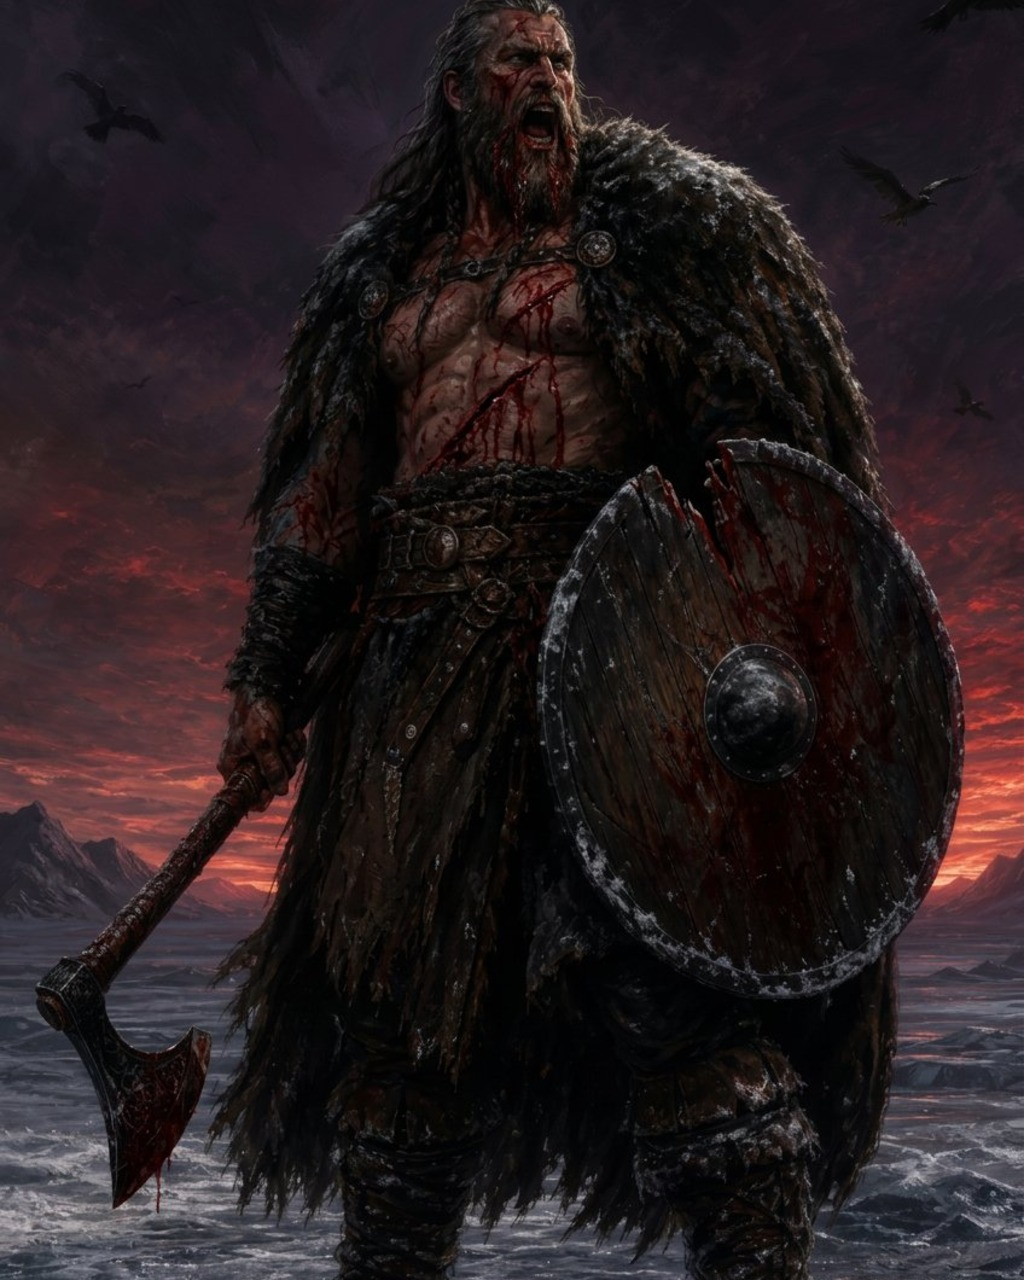
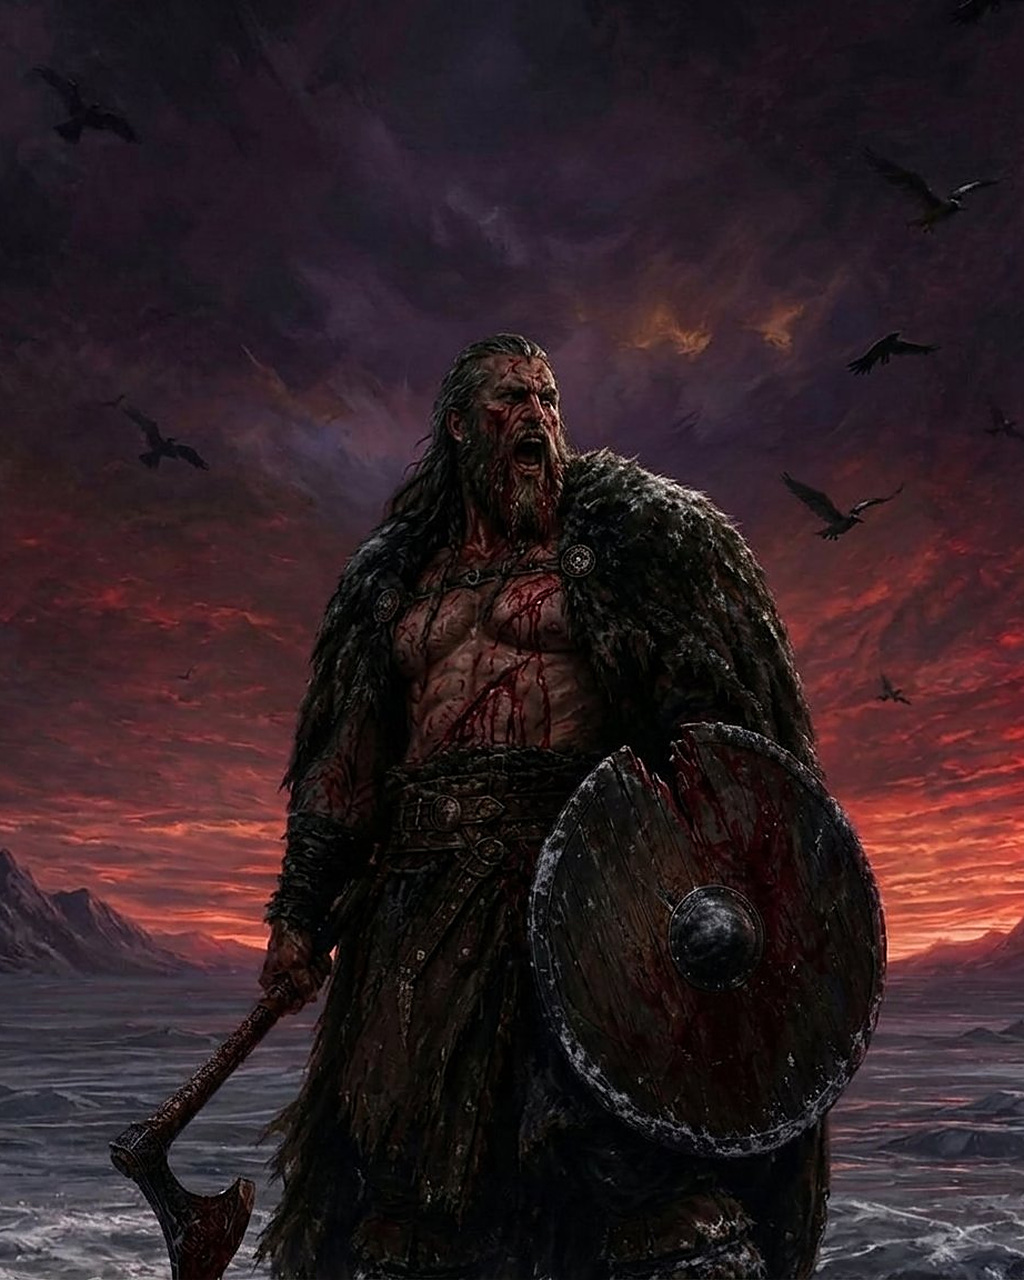
Recadre le Berserk du crépuscule : le visage sortait sous le bandeau de nom
Sa peinture remplissait le tiers supérieur de ciel et le crâne tombait
exactement sous le parchemin du nom : en vignette comme sur la table, on
ne voyait qu'un front coupé. La scène ne change pas — même berserker,
même peau de loup, même hache, même bouclier, même grève et mêmes
corbeaux — seul le cadrage recule : plus de ciel au-dessus, le crâne au
tiers supérieur, entièrement dégagé sous la ligne de type.

La face de Furie suit le même recadrage. Les deux fichiers gardent leur
nom et prennent une révision de cache dédiée
(corbeau-crepuscule-cadrage-v2 / corbeau-furie-crepuscule-cadrage-v2),
consignée dans tests/rpg-corbeau.test.js, le contrôle des furies et la
direction artistique.

diff --git a/src/games/rpgCardArt.js b/src/games/rpgCardArt.js
@@ -166,13 +166,22 @@ const CARD_ART_CACHE_VERSIONS = {
   // toutes partagent la révision du set, décidée ici une seule fois.
   'corbeau-de-givre': 'corbeau-neuf-nuits-v1',
   'veilleuse-au-corbeau-noir': 'corbeau-neuf-nuits-v1',
-  'berserk-du-crepuscule': 'corbeau-neuf-nuits-v1',
+  // Le Berserk du crépuscule était mal cadré : sa tête tombait sous le
+  // bandeau de nom et le tiers supérieur ne montrait que du ciel vide, le
+  // visage disparaissait en vignette. La peinture est reprise avec le même
+  // berserker — même visage, même peaux, même grève, mêmes corbeaux — mais
+  // reculée dans le cadre : plus de ciel au-dessus, le crâne au tiers
+  // supérieur, entièrement dégagé sous le parchemin du nom. Révision dédiée,
+  // le fichier garde son nom et seul le `?v=` casse le cache.
+  'berserk-du-crepuscule': 'corbeau-crepuscule-cadrage-v2',
   'valkyrie-des-neuf-nuits': 'corbeau-neuf-nuits-v1',
   'neige-noire': 'corbeau-neuf-nuits-v1',
   'maitre-des-corbeaux': 'corbeau-neuf-nuits-v1',
   // Les deux faces de Furie du Corbeau des neuf nuits : même composition que
-  // la peinture intacte, seulement marquée par le combat.
-  'berserk-du-crepuscule-furie': 'corbeau-furie-crepuscule-v1',
+  // la peinture intacte, seulement marquée par le combat. Redéclarées plus bas
+  // dans la passe des Furies (`corbeau-furie-souls-v1`), à l'exception du
+  // Berserk dont le recadrage impose sa propre révision.
+  'berserk-du-crepuscule-furie': 'corbeau-furie-crepuscule-cadrage-v2',
   'valkyrie-des-neuf-nuits-furie': 'corbeau-furie-neuf-nuits-v1',
   // Le Serpent du monde garde la facture nihonga, mais sa composition est
   // repensée : un serpent unique et anatomiquement cohérent encercle le globe.
@@ -251,8 +260,10 @@ const CARD_ART_CACHE_VERSIONS = {
   'jarl-au-marteau-de-guerre-furie': 'neige-furie-souls-v1',
   'guerrier-au-bouclier-rond-furie': 'neige-furie-souls-v1',
   // Les deux furies du Corbeau des neuf nuits : même scène que leur peinture
-  // intacte, marquée par le combat.
-  'berserk-du-crepuscule-furie': 'corbeau-furie-souls-v1',
+  // intacte, marquée par le combat. La face du Berserk suit le recadrage de sa
+  // peinture intacte — même scène, même cri, mais le crâne entier dégagé sous
+  // le bandeau de nom — et prend donc sa propre révision.
+  'berserk-du-crepuscule-furie': 'corbeau-furie-crepuscule-cadrage-v2',
   'valkyrie-des-neuf-nuits-furie': 'corbeau-furie-souls-v1',
   // La Tour Oubliée rejoint la passe : l'Ifrit d'encre porte Furie 1. Sa face
   // déclenchée reprend son archive en feu, fissures ouvertes et encre lâchée.

diff --git a/tests/rpg-corbeau.test.js b/tests/rpg-corbeau.test.js
@@ -173,17 +173,23 @@ test('le Berserk du crépuscule et la Valkyrie des neuf nuits changent de peintu
     // Les deux furies ont été repeintes dans la passe Souls (octobre 2026) :
     // même composition, mais l'huile sombre de la collection au lieu d'une
     // facture d'une autre époque.
-    ['berserk-du-crepuscule', 'corbeau-furie-souls-v1'],
-    ['valkyrie-des-neuf-nuits', 'corbeau-furie-souls-v1'],
+    //
+    // Le Berserk du crépuscule a ensuite été recadré (octobre 2026) : sa tête
+    // tombait sous le bandeau de nom. Face intacte et face de Furie ont été
+    // reprises ensemble — plus de ciel au-dessus, le crâne au tiers supérieur —
+    // et portent donc chacune leur révision, le temps que les caches se
+    // retournent.
+    ['berserk-du-crepuscule', 'corbeau-furie-crepuscule-cadrage-v2', 'corbeau-crepuscule-cadrage-v2'],
+    ['valkyrie-des-neuf-nuits', 'corbeau-furie-souls-v1', 'corbeau-neuf-nuits-v1'],
   ];
-  for (const [carteId, revision] of portraits) {
+  for (const [carteId, revision, revisionIntacte] of portraits) {
     const carte = cardById(carteId);
     assert.equal(carte.furie, 2, `${carteId} porte bien la Furie 2`);
     assert.equal(cardArtFurie(carte),
       `/cards/${carteId}-furie.jpg?v=${revision}`,
       `${carteId} affiche sa peinture furie, datée sous ${revision}`);
-    assert.match(cardArt(carte), new RegExp(`^/cards/${carteId}\\.jpg\\?v=corbeau-neuf-nuits-v1$`),
-      `${carteId} garde sa peinture intacte, sous la révision du set`);
+    assert.match(cardArt(carte), new RegExp(`^/cards/${carteId}\\.jpg\\?v=${revisionIntacte}$`),
+      `${carteId} garde sa peinture intacte, sous ${revisionIntacte}`);
     assert.ok(existsSync(fileURLToPath(
       new URL(`../public/cards/${carteId}-furie.jpg`, import.meta.url),
     )), `${carteId}-furie.jpg est livré avec le jeu`);

diff --git a/src/games/RPG-CARD-ART.md b/src/games/RPG-CARD-ART.md
@@ -291,8 +291,9 @@ qui éclate sous les impacts. Révision `neige-eclair-marteau-v4`.
 ## Le Corbeau des neuf nuits — Neige + Ténèbres
 
 Le set hybride de la **Tour du Corbeau** (dossier 22) peint six cartes, toutes
-au ratio exact de la face (1024×1280), dans une seule révision de cache —
-`corbeau-neuf-nuits-v1` dans `rpgCardArt.js` :
+au ratio exact de la face (1024×1280), sous la révision de cache du set —
+`corbeau-neuf-nuits-v1` dans `rpgCardArt.js` — sauf le Berserk du crépuscule,
+recadré depuis et daté à part (voir plus bas) :
 
 - **Corbeau de givre** — un grand corbeau de nuit posé sur une pierre runique,
   le bec et les plumes pris dans le givre, la neige épaisse, l'aurore en haut
@@ -322,6 +323,30 @@ Deux de ces six cartes portent la Furie et reçoivent donc, en plus de leur
 peinture intacte, une **face de Furie** au même ratio et dans la même
 composition, ensanglantée et enragée : `berserk-du-crepuscule-furie.jpg` et
 `valkyrie-des-neuf-nuits-furie.jpg` (voir la dérogation Furie plus bas).
+
+### Le recadrage du Berserk du crépuscule (octobre 2026)
+
+Sur la carte posée, le **Berserk du crépuscule** était mal cadré : le peintre
+avait rempli le tiers supérieur du cadre de ciel, et le crâne du berserker
+tombait exactement sous le bandeau de nom — le parchemin, la ligne de type et
+le bandeau d'élément mangeaient le front, et il ne restait plus, en vignette
+comme sur la table, qu'un visage coupé au-dessus des sourcils. La composition
+elle-même n'était pas en cause : c'était sa place dans le cadre.
+
+La peinture a donc été **reprise dans le même fichier**, sans rien changer à la
+scène : le même berserker (même visage buriné, même barbe tressée, même peau de
+loup givrée, même hache, même bouclier rond cerclé de fer, même torse balafré),
+la même grève, le même dernier rouge du jour, les mêmes montagnes et le même
+vol de corbeaux. Seul le cadrage recule : plus de ciel au-dessus de lui, le
+crâne désormais au tiers supérieur et **entièrement dégagé sous le parchemin**,
+la silhouette plus basse dans la face. Sa **face de Furie** suit le même
+recadrage, cri et sang compris, pour que les deux états ne se contredisent pas.
+
+Les deux faces portent leur propre révision de cache —
+`corbeau-crepuscule-cadrage-v2` pour la face intacte, la même marque suffixée
+`-furie` (`corbeau-furie-crepuscule-cadrage-v2`) pour la face déclenchée —, le
+temps que les navigateurs oublient l'ancien cadrage ; les noms de fichiers ne
+bougent pas.
 
 ## État des sept magies reprises en plein art 4:5
 
@@ -1009,8 +1034,9 @@ change de matière :
   `tenebres-os-cendres-v2` — la même peinture, avec le violet remis.
 
   **Les six cartes du Corbeau des neuf nuits ne le reçoivent pas** : elles
-  portent `corbeau-neuf-nuits-v1`, restent franchement froides, et c'est ce
-  contraste qui donne au set sa profondeur.
+  portent la marque du set (`corbeau-neuf-nuits-v1`, ou
+  `corbeau-crepuscule-cadrage-v2` pour le Berserk recadré), restent franchement
+  froides, et c'est ce contraste qui donne au set sa profondeur.
 - **Une seule source** : une lampe à huile, une fente de jour, jamais deux.
 
 ### Premier lot : l'atelier et les serviteurs
@@ -1124,9 +1150,10 @@ peintures, deux âges de la carte.
 ### Les Ténèbres sont closes : 28 cartes sur 28
 
 Contrôle fait carte par carte, comme pour la Neige et l'Eau : aucune carte
-jouable de l'élément Ténèbres ne garde son ancienne peinture. Les six entrées
-en marque `corbeau-neuf-nuits-v1` sont le **Corbeau des neuf nuits**, déjà
-traité.
+jouable de l'élément Ténèbres ne garde son ancienne peinture. Les six cartes
+du **Corbeau des neuf nuits** — cinq sous la marque du set
+`corbeau-neuf-nuits-v1`, le Berserk du crépuscule sous celle de son recadrage
+`corbeau-crepuscule-cadrage-v2` — sont déjà traitées.
 
 Les cinq anciennes peintures rejoignent `public/cards/alt/` : **cent
 quarante-huit illustrations alternatives**, dont quinze à l'échelle et cent
@@ -1163,7 +1190,9 @@ intacte et levé, ensanglanté, sur la furie. Le **Guerrier au bouclier rond**
 garde son bouclier de fer goudronné sur sa furie, sans le motif vert et blanc.
 Et les **deux furies du Corbeau des neuf nuits** — Berserk du crépuscule,
 Valkyrie des neuf nuits — sont repeintes dans l'huile sombre, même grève, même
-aurore, même spirale de corbeaux (`corbeau-furie-souls-v1`).
+aurore, même spirale de corbeaux (`corbeau-furie-souls-v1` ; la face du
+Berserk, recadrée depuis, est datée
+`corbeau-furie-crepuscule-cadrage-v2`).
 
 Les sept faces de Furie du catalogue sont désormais toutes dans la même
 facture.
@@ -1238,11 +1267,13 @@ seulement marquée par le combat, au format exact 1024×1280 et sous une
 révision dédiée à chacune.
 
 - **Berserk du crépuscule** (`berserk-du-crepuscule-furie.jpg`, révision
-  `corbeau-furie-crepuscule-v1`) — le même berserker sur la grève, face au
-  dernier rouge du jour ; le visage est passé en furie, la peau de loup
+  `corbeau-furie-crepuscule-cadrage-v2`) — le même berserker sur la grève, face
+  au dernier rouge du jour ; le visage est passé en furie, la peau de loup
   déchirée et souillée, le torse et les bras couverts de sang, le bouclier
   rond fendu sur son bord et la hache noircie de gore. Le ciel violet, les
-  montagnes et les corbeaux restent identiques.
+  montagnes et les corbeaux restent identiques, et la face suit le recadrage de
+  la peinture intacte : le crâne entier se lit sous le bandeau de nom, la bouche
+  hurlante au tiers supérieur.
 - **Valkyrie des neuf nuits** (`valkyrie-des-neuf-nuits-furie.jpg`, révision
   `corbeau-furie-neuf-nuits-v1`) — la même Valkyrie sur la glace, sous la même
   aurore ; elle hurle, le visage et l’armure de fer sanglants, une épaulière
@@ -1681,8 +1712,10 @@ ce sont les images les plus anciennes du catalogue.
 `contresort-des-abimes` (6 %) et `baton-des-citernes` (7 %). À cette clarté, le
 sujet tient encore en grand mais se perd dans une main de cartes.
 
-**4. Le Corbeau des neuf nuits** (six cartes, `corbeau-neuf-nuits-v1`) reste un
-registre à part, plus violet et plus fantastique que le reste des Ténèbres. Ce
+**4. Le Corbeau des neuf nuits** (six cartes, marque du set
+`corbeau-neuf-nuits-v1` et `corbeau-crepuscule-cadrage-v2` pour le Berserk
+recadré) reste un registre à part, plus violet et plus fantastique que le reste
+des Ténèbres. Ce
 n'est pas un défaut : c'est ce qui donne sa profondeur au set. À noter
 seulement que `la-barbe-noire` vit dans les Ténèbres avec une peinture du Sable.
 
